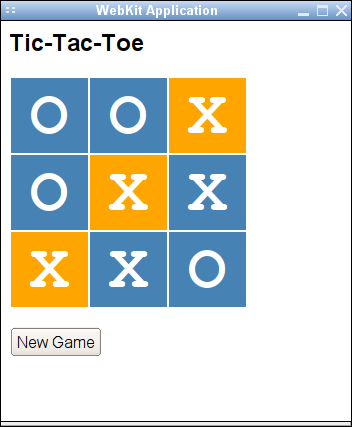
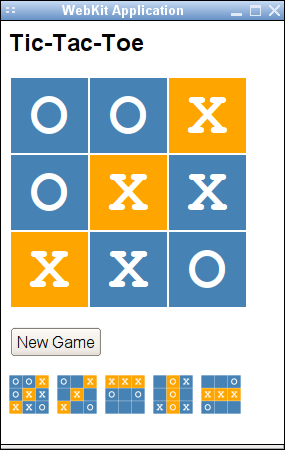
review h-utils.lisp and Tic-Tac-Toe

diff --git a/examples/M-modules/webkit/Tic-Tac-Toe/tic-tac-toe.htm b/examples/M-modules/webkit/Tic-Tac-Toe/tic-tac-toe.htm
@@ -1,7 +1,16 @@
 <html>
+  <head>
+  <style>
+  .cells {
+    width: 2cm; height: 2cm;
+    text-align: center;
+    font-family: Courier New, Courier, monospaced; font-size: 1.7cm; font-weight: bold;
+    color: white; background-color: steelblue; }
+  </style>
+  </head>
   <body>
     <h2>Tic-Tac-Toe</h2>
-    <table>
+    <table id="board">
       <tr>
         <td id="c1"><td id="c2"><td id="c3">
       </tr>
